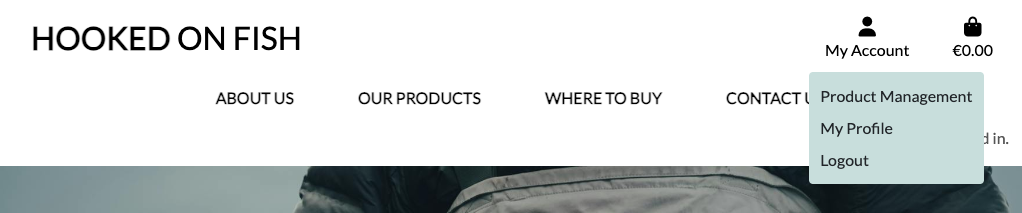
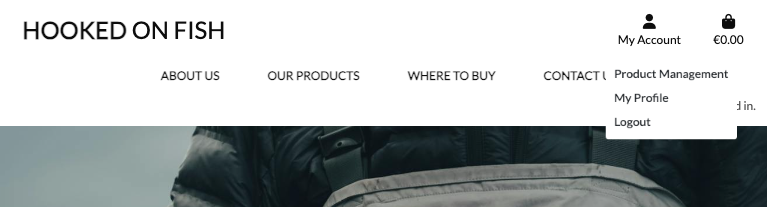
Add design and images to readme

diff --git a/static/css/base.css b/static/css/base.css
@@ -38,14 +38,10 @@ body {
     padding: .25rem .7rem !important;
 }
 
-.dropdown-menu {
-    background-color: #d3e2e1 !important;
-}
-
 /* ------------------------------ Buttons */
 
 .shop-now-button {
-    background: #006763e8;
+    background: #006764e8;
     color: #fff;
     letter-spacing: 1px;
     min-width: 200px;
@@ -70,8 +66,8 @@ body {
 
 .btn-outline-black {
     background: white;
-    color: black !important; /* use important to override link colors for <a> elements */
-    border: 1px solid #252525;
+    color: #0d0d0d !important; /* use important to override link colors for <a> elements */
+    border: 1px solid #0d0d0d;
 }
 
 .btn-outline-black:hover,
@@ -105,7 +101,7 @@ body {
 }
 
 .text-black {
-    color: #000 !important;
+    color: #0d0d0d !important;
 }
 
 .border-black {
@@ -176,7 +172,7 @@ body {
 
 .partners a {
     text-decoration: none;
-    color: #252525;
+    color: #0d0d0d;
     font-size: .9rem;
 }
 
@@ -189,7 +185,7 @@ body {
 .contact-form-container {
     background: #ffffffcc; 
     border-radius: 5px; 
-    box-shadow: 0px 4px 10px rgba(0, 0, 0, 0.1); 
+    box-shadow: 0px 4px 10px #0000001a; 
     backdrop-filter: blur(5px);
     max-width: 800px;
     margin: 0 auto;
@@ -211,7 +207,7 @@ body {
     font-weight: 900;
     font-size: 1.5rem;
     letter-spacing: 1px;
-    color: #252525;
+    color: #0d0d0d;
     padding: 10px;
 }
 
@@ -264,7 +260,7 @@ body {
     height: 0; 
     border-left: 4px solid transparent;
     border-right: 4px solid transparent; 
-    border-bottom: 10px solid black;
+    border-bottom: 10px solid #0d0d0d;
     position: absolute;
     top: -10px;
     right: 36px;
@@ -272,7 +268,7 @@ body {
 
 /* Convenience classes - colors copied from Bootstrap */
 .arrow-primary {
-    border-bottom-color: #007bff !important;
+    border-bottom-color: #00c0e1 !important;
 }
 
 .arrow-secondary {
@@ -280,11 +276,11 @@ body {
 }
 
 .arrow-success {
-    border-bottom-color: #28a745 !important;
+    border-bottom-color: #00b58a !important;
 }
 
 .arrow-danger {
-    border-bottom-color: #dc3545 !important;
+    border-bottom-color: #c84242 !important;
 }
 
 .arrow-warning {
@@ -360,7 +356,7 @@ body {
 }
 
 .allauth-form-inner-content a {
-	color: #006763; /* text-info */
+	color: #006764; /* text-info */
 }
 
 /* Product Form */
@@ -382,12 +378,12 @@ body {
 
 .custom-checkbox .custom-control-label::before {
     border-radius: 4;
-    border-color: #dc3545;
+    border-color: #c93434;
 }
 
 .custom-checkbox .custom-control-input:checked~.custom-control-label::before {
-    background-color: #dc3545;
-    border-color: #dc3545;
+    background-color: #c93434;
+    border-color: #c93434;
     border-radius: 5;
 }
 

diff --git a/README.md b/README.md
@@ -464,35 +464,43 @@ This schema efficiently organizes data to support Hooked on Fish' functionality,
 
 ![alt text](README-files/colour-palette.png)
 
-The colour scheme is kept very simple and clean. The few colours used drawn inspiration from the Connemara coastal landscape, and give a Fishermens feel.
+The color scheme is intentionally simple and clean. To maintain a clear and uncluttered design, I’ve used only a few shades of green-blue to add subtle color while keeping the reader’s focus on the content.
 
-Wanting to keep the design clean and clear, I have used only a few hues of blue for adding colour. Making sure the attention of the reader is mostly drawn to the content. <br>
-I have chosen a white neutral for the background and a deep charcoal for headers and accents to provide the necessary contrast, ensuring readability and accessible text elements without overwhelming the page.
+For the background, I chose a neutral white, complemented by deep charcoal for headers and accents. This contrast ensures readability and accessibility without overpowering the page.
 
 ### Typography
 
-The typography on Hooked on Fish is a clean sans-serif font, to create a modern clean feel. 
+The typography on Hooked on Fish features a clean, sans-serif font (Lato) to ensure a crisp, modern, and easily readable design. 
 
 The following code has been imported into the top of the base.html file:
 
-    <link href="https://fonts.googleapis.com/css2?family=Roboto:wght@300&display=swap" rel="stylesheet">
+     <link rel="stylesheet" href="https://fonts.googleapis.com/css?family=Lato&display=swap">
 
-Roboto:<br>
-![alt text](README-files/roboto.png)<br>
+Lato:<br>
+![alt text](README-files/lato.png)<br>
 
 
 ### Imagery
 
 Several image sources were used for the images throughout the website.<br>
+All other photo's on the website are taken by me.
+<br>
 
 <details>
-<summary> The links to these sources are listed here:
+<summary> The links to the sourced images are listed here:
 </summary>
 
-* [Hero Image, FIsherman]()
+* [Home Page Image, Photo by Gaspar Zaldo from Pexels](https://www.pexels.com/photo/person-picking-spinners-in-a-small-container-6739268/)
 
-* Photo by : 
-* Photo by : 
+* [Kona-Mara Product Image, Photo by Kindel Media from Pexels](https://www.pexels.com/photo/silver-fish-in-white-plastic-container-8352392/)
+
+* [Crab Product Image, Photo by Kindel Media from Pexels](https://www.pexels.com/photo/person-holding-brown-crab-8351592/)
+
+* [Scallop Product Image, from Fishi Seafood](https://fishi.com.au/product/scallop/)
+
+* [Cod Product Image, from Marinel Seafood](https://marinel.com/en/saithe-pollock/)
+
+
 </details>
 
 *** 
@@ -517,7 +525,7 @@ Several image sources were used for the images throughout the website.<br>
 * [Am I Responsive?](https://ui.dev/amiresponsive) - Used to create an image of the website on various screen sizes.
 * [Heroku](https://www.heroku.com/) - Used for deploying the live project.
 * [Bootstrap](https://getbootstrap.com/) - Used to add style to the displayed pages
-* [ChatGPT](https://chat.openai.com/) - Used to create the blogs, member stories and about page.
+* [ChatGPT](https://chat.openai.com/) - Used to create the content for about page and where to buy pages.
 * [Code Beautify](https://codebeautify.org/) - Used to format HTML and CSS code.
 * [Clouidnary](https://cloudinary.com/) - Used to host images and integrate with django and the admin portal.
 
@@ -674,11 +682,10 @@ $ git clone https://github.com/YOUR-USERNAME/YOUR-REPOSITORY
 
 I have taken inspiration and information from the following websites for Hooked on Fish:
 
-* [Garden Illustrated](https://www.gardensillustrated.com)
-* [RHS](https://www.rhs.org.uk/garden-inspiration/garden-types/coastal-gardens)
-* [Martha Stewart.com](https://www.marthastewart.com/)
-* [Gardenista](https://www.gardenista.com/)
-* [Gardening Know How](https://www.gardeningknowhow.com/garden-how-to/gardening-by-zone)
+* [The Good Fish Company](https://www.goodfish.ie/)
+* [The Seafood Cafe](https://theseafoodcafe.ie/)
+* [Kingfisher Fresh](https://kingfisherfresh.ie/)
+* [Pipers Farm](https://pipersfarm.com/)
 
 ***
 
@@ -688,23 +695,19 @@ The walkthrough project "Boutique Ado" was a great way of understanding how to g
 
 I have used various resources to help me with figuring out how to create the Hooked on Fish Website:
 
-
+* [Stripe](https://docs.stripe.com/get-started)
 * [Simple is better than Complex - for the dashboard](https://simpleisbetterthancomplex.com/tutorial/2016/07/22/how-to-extend-django-user-model.html#onetoone)
 * [Harabat - for the dashboard](https://harabat.github.io/django-htmx/07_users_and_profiles/)
 * [Stackoverflow - create profile](https://stackoverflow.com/questions/61580144/django-create-profile-for-user-signal)
 * [Django Waves - one to one](https://djangowaves.com/resources/django-one-to-one-field/)
-* [Geeks for Geeks - add slug field inside model](https://www.geeksforgeeks.org/add-the-slug-field-inside-django-model/)
-* [MdBootstrap - for the footer](https://mdbootstrap.com/docs/standard/navigation/footer/examples-and-customization/)
-* [Stackoverflow - for the auto-dismiss alert](https://stackoverflow.com/questions/23101966/bootstrap-alert-auto-close)
-* [Get Bootstrap - for the auto-dismiss alert](https://getbootstrap.com/docs/5.0/components/alerts/)
-* [She Codes - for the auto-dismiss alert](https://www.shecodes.io/athena/8466-how-to-create-an-event-listener-to-alert-a-message)
 * [GitHub/CMed01 - for the custom error pages](https://github.com/CMed01/portfolio-milestone-4/tree/main)
+* [Django Project - class based views](https://docs.djangoproject.com/en/5.1/topics/class-based-views/intro/)
 * [Learn Django - for the custom error pages](https://learndjango.com/tutorials/customizing-django-404-and-500-error-pages)
 * [Django Docs - for automated testing](https://docs.djangoproject.com/en/5.1/topics/testing/overview/)
 * [The Mozilla Developer Network (MDN) - for automated testing](https://developer.mozilla.org/en-US/docs/Learn/Server-side/Django/Testing)
 * [YouTube - Mastering Django Unit Testing: An In-Depth Introduction and Tutorial](https://www.youtube.com/watch?v=N_HLNV2UQjg&t=1s)
 * [YouTube - Automated Test Basics - Python & Django](https://www.youtube.com/watch?v=6I_haJimhPY)
-
+* [ChatGPT- used as an accelerating learning tool](https://chat.openai.com/)
 * [Stack overflow](https://stackoverflow.com/)
 * [Pep Style Guide](https://peps.python.org/pep-0008/)
 * [W3Schools](https://www.w3schools.com/)
